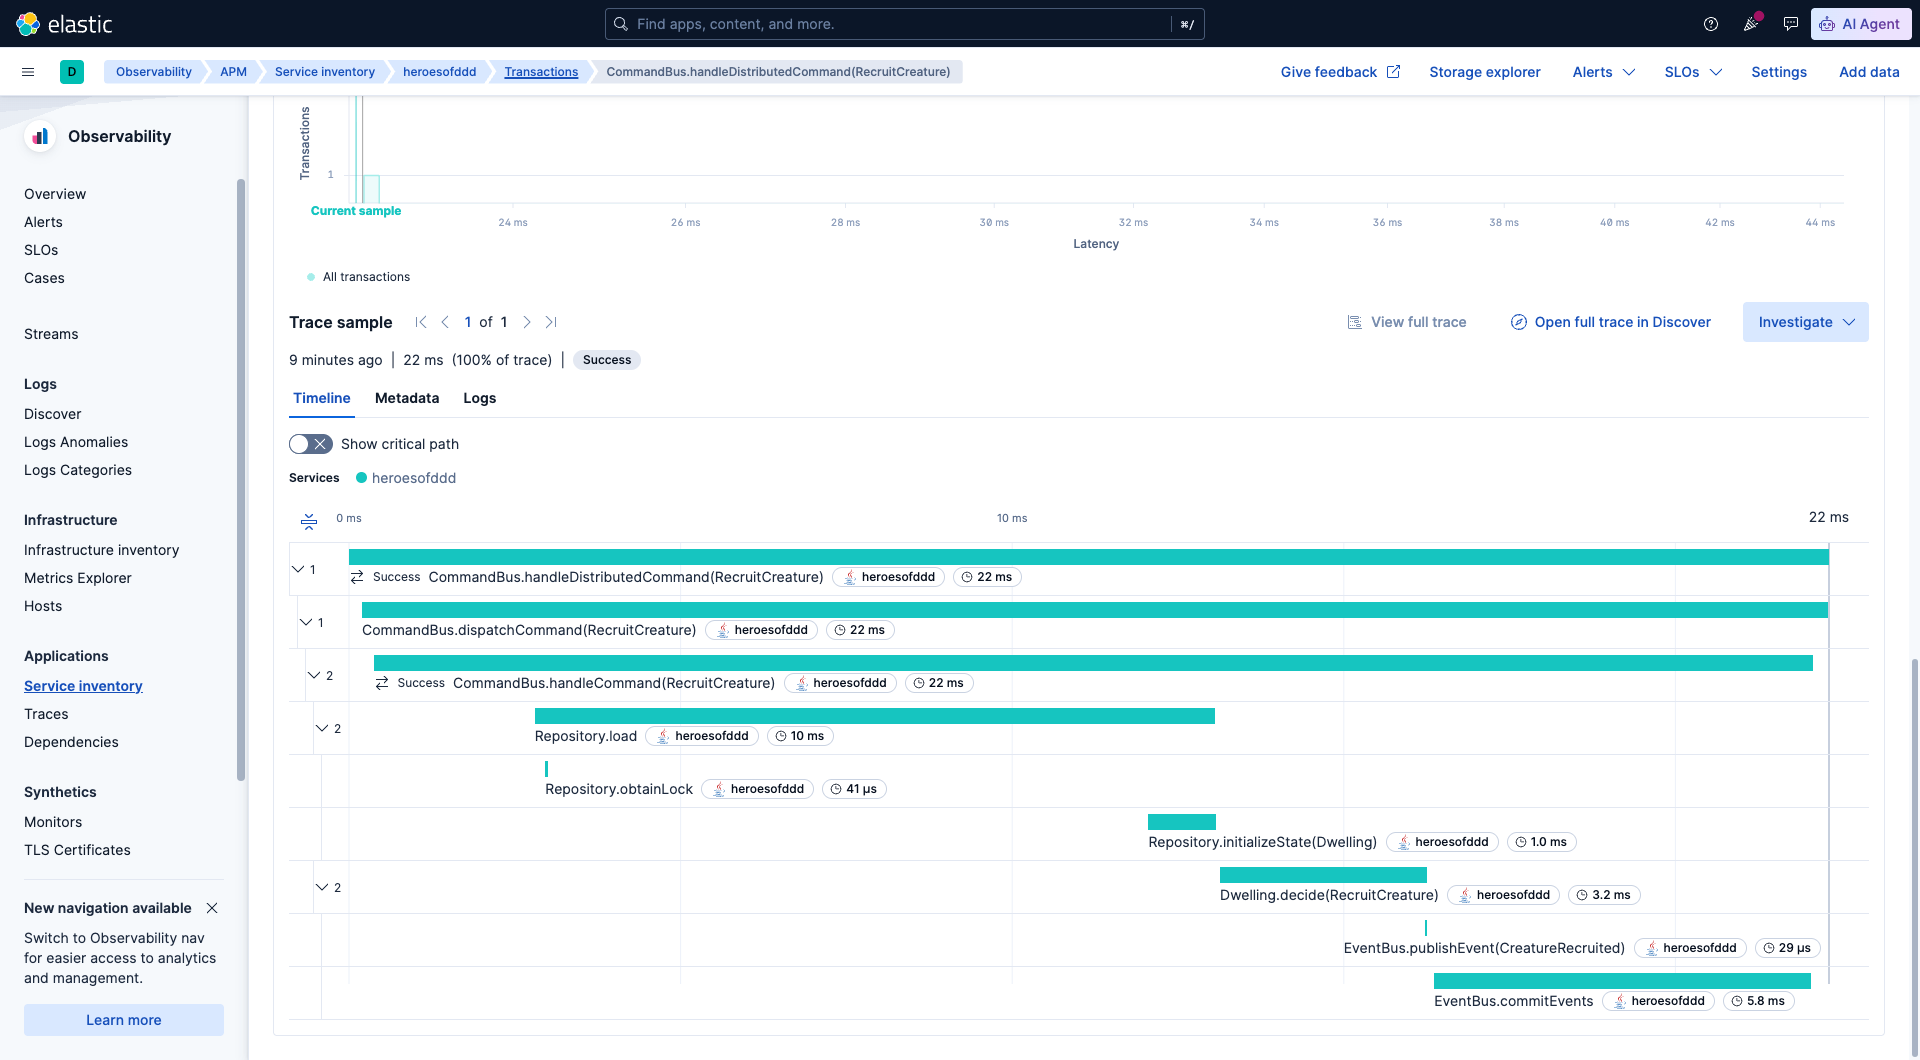
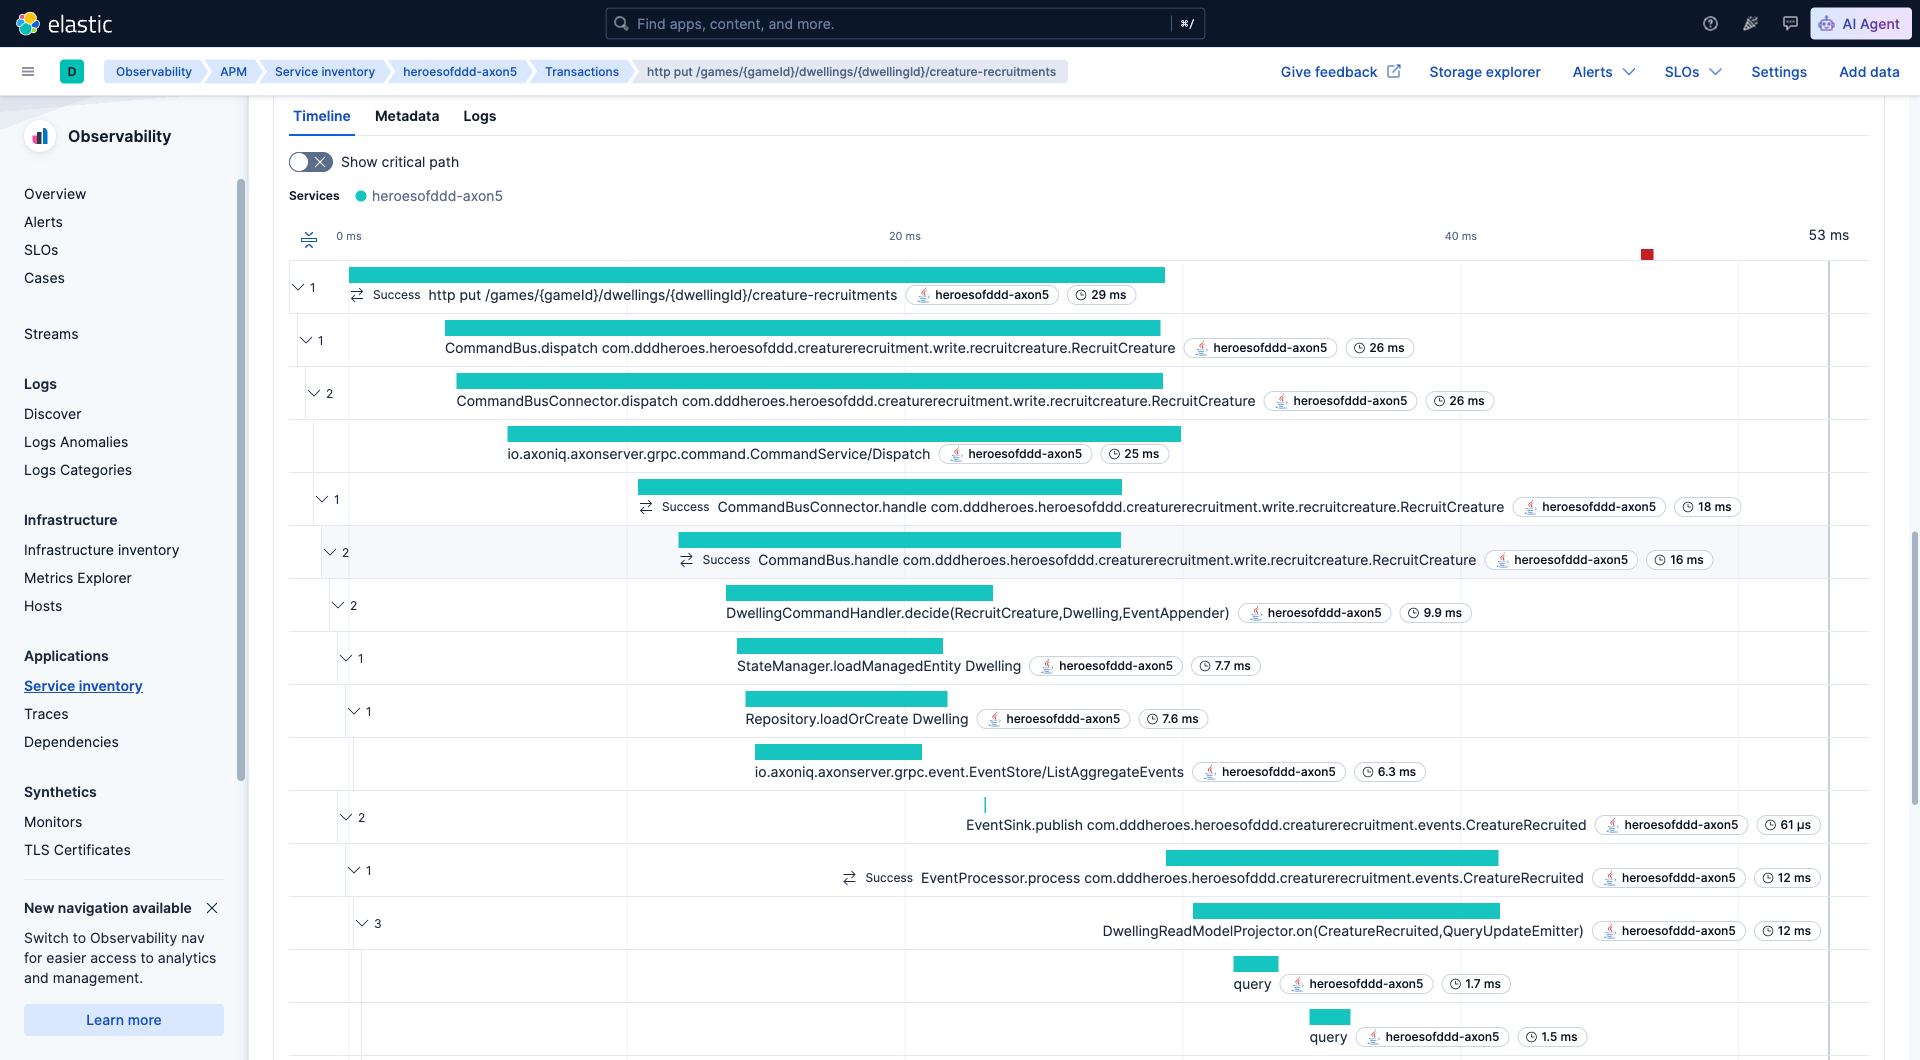
docs(observability): describe the Axon 5 traces that the app actually produces
The Kibana/Jaeger tour, filters and screenshots still showed Axon 4 span and
attribute names (handleDistributedCommand, EventBus.publishEvent,
axon.metadata.*), so the documented filters matched nothing. The section on
split traces also claimed that the Axon Server hop and event processors start
new traces, but with the trace context in message metadata and
distributed-in-same-trace one request is one trace.

Recapture the Kibana screenshots against Axon Server, use the axoniq.* span
attributes, and list the cases that legitimately produce extra or linked
traces.

diff --git a/docs/OBSERVABILITY.md b/docs/OBSERVABILITY.md
@@ -19,7 +19,7 @@ The app can emit distributed traces to either **Elastic APM** or **Jaeger** via 
 11. [R2DBC / SQL spans](#r2dbc--sql-spans)
 12. [gRPC spans (Axon Server connector)](#grpc-spans-axon-server-connector)
 13. [Reading reactive traces — causality vs. containment](#reading-reactive-traces--causality-vs-containment)
-14. [Why Axon splits work across multiple traces](#why-axon-splits-work-across-multiple-traces)
+14. [When a request spans more than one trace](#when-a-request-spans-more-than-one-trace)
 
 ## Backends — pick one
 
@@ -114,89 +114,110 @@ No `observability-*` profile = no traces emitted, no extra containers needed. Us
 
 ## Exploring traces in Kibana — guided tour
 
-A quick walkthrough of what you can see and where to click. Examples below were captured after running the full chain `BuildDwelling → IncreaseAvailableCreatures → RecruitCreature → GetDwellingById` through Swagger UI with the `observability-elastic` profile active.
+A quick walkthrough of what you can see and where to click. The captures below come from running the
+`generated-requests.http` flow (`BuildDwelling` twice, `GetDwellingById`, the `WatchDwelling` subscription,
+`IncreaseAvailableCreatures`, `RecruitCreature`) with `SPRING_PROFILES_ACTIVE=observability-elastic,axonserver-aggregate`,
+so commands travel through Axon Server.
 
 ### 1. Service inventory
 
-[Kibana → ☰ → Observability → APM → Services](http://localhost:5601/app/apm/services) — landing page lists every service emitting traces. After firing a few requests you should see `heroesofddd` with average latency, throughput, and error rate.
+[Kibana -> ☰ -> Observability -> APM -> Services](http://localhost:5601/app/apm/services) - landing page lists every service emitting traces. After firing a few requests you should see `heroesofddd-axon5` with average latency, throughput, and error rate.
 
 ![Service inventory](images/observability/service-inventory.png)
 
 ### 2. Transactions
 
-Click `heroesofddd` → **Transactions** tab. Each row is a distinct "entry point" — both HTTP endpoints (auto-instrumented by Spring Web) and Axon's async boundaries (each command/event/query handler is a top-level transaction because Axon hops across the gRPC bus and async event processors).
+Click `heroesofddd-axon5` -> **Transactions** tab. With the default transaction type `request` the table lists the HTTP
+endpoints (auto-instrumented by Spring WebFlux) and the Axon Server connector's own background gRPC calls
+(`EventStore/GetFirstToken`, `PlatformService/GetPlatformServer`). Switch **Transaction type** to `unknown` to list the
+Axon handlers (`CommandBus.handle ...`, `CommandBusConnector.handle ...`, `EventProcessor.process ...`, `QueryBus.handle ...`).
+Elastic APM shows those as transactions because of their span kind, but they are not separate traces: each one sits
+inside the trace of the request that caused it.
 
 ![Transactions](images/observability/transactions.png)
 
-### 3. Traces — the full list
+### 3. Traces - the full list
 
-[Kibana → APM → Traces](http://localhost:5601/app/apm/traces) shows every individual trace tree.
+[Kibana -> APM -> Traces](http://localhost:5601/app/apm/traces) shows every individual trace tree, by its root.
 
-For this project you'll see roots like:
-- `http put /games/{gameId}/dwellings/{dwellingId}` — HTTP root
-- `CommandBus.handleDistributedCommand(RecruitCreature)` — command handling on the aggregate side after the gRPC hop to Axon Server
-- `StreamingEventProcessor.process(CreatureRecruited)` — projector / automation
-- `CommandBus.handleCommand(AddCreatureToArmy)` — command emitted by the `WhenCreatureRecruitedThenAddToArmy` automation
-- `QueryBus.processQueryMessage(GetDwellingById)` — query side
+For this project the roots are:
+- `http put /games/{gameId}/dwellings/{dwellingId}` and the other HTTP endpoints, one trace per request
+- `io.axoniq.axonserver.grpc.event.EventStore/GetFirstToken` and `...PlatformService/GetPlatformServer`, background
+  calls of the Axon Server connector, not tied to any request
+
+Commands, event processors, automations and their follow-up commands do **not** appear as roots: they continue the
+request's trace (see [When a request spans more than one trace](#when-a-request-spans-more-than-one-trace)).
 
 ![Traces list](images/observability/traces.png)
 
-### 4. Trace waterfall — Axon internals visible
+### 4. Trace waterfall - Axon internals visible
 
-Click any `CommandBus.handleCommand(...)` trace and Kibana renders a waterfall like this — the full call path of the Axon command handler, including aggregate loading and event publication:
+Click the `http put .../creature-recruitments` trace and Kibana renders the whole request as one waterfall - the HTTP
+call, the command's hop through Axon Server, the command handler, event publication, the projector with its SQL, and
+the automation's follow-up command:
 
 ![Axon trace waterfall](images/observability/axon-waterfall.png)
 
-What you're looking at:
+What you're looking at (durations from the capture above, names shortened):
 
 ```
-✓ CommandBus.handleDistributedCommand(RecruitCreature)     22 ms     ← gRPC server side
-  └─ CommandBus.dispatchCommand(RecruitCreature)           22 ms
-     └─ CommandBus.handleCommand(RecruitCreature)          22 ms
-        ├─ Repository.load                                 10 ms     ← event sourcing
-        │  ├─ Repository.obtainLock                        41 μs
-        │  └─ Repository.initializeState(Dwelling)          1.0 ms   ← rehydrate aggregate
-        ├─ Dwelling.decide(RecruitCreature)                 3.2 ms   ← AGGREGATE business logic
-        ├─ EventBus.publishEvent(CreatureRecruited)        29 μs
-        └─ EventBus.commitEvents                            5.8 ms   ← persist to event store
+✓ http put /games/{gameId}/dwellings/{dwellingId}/creature-recruitments             29 ms
+  └─ CommandBus.dispatch ...RecruitCreature                                         26 ms
+     └─ CommandBusConnector.dispatch ...RecruitCreature                             26 ms   <- gRPC to Axon Server
+        ├─ CommandService/Dispatch                                                  25 ms
+        └─ CommandBusConnector.handle ...RecruitCreature                            18 ms   <- handling side of the hop
+           └─ CommandBus.handle ...RecruitCreature                                  16 ms
+              ├─ DwellingCommandHandler.decide(RecruitCreature,...)                9.9 ms   <- business logic
+              │  ├─ StateManager.loadManagedEntity Dwelling                        7.7 ms
+              │  │  └─ Repository.loadOrCreate Dwelling                            7.6 ms   <- event sourcing
+              │  │     └─ EventStore/ListAggregateEvents                           6.3 ms
+              │  └─ EventSink.publish ...CreatureRecruited                          61 μs
+              │     ├─ EventProcessor.process ...CreatureRecruited                  12 ms   <- ReadModel_Dwelling
+              │     │  └─ DwellingReadModelProjector.on(CreatureRecruited,...)      12 ms
+              │     │     ├─ query / query                                                  <- R2DBC read-model queries
+              │     │     └─ QueryBus.emitUpdate                                            <- subscription-query update
+              │     └─ EventProcessor.process ...CreatureRecruited                          <- automation processor
+              │        └─ WhenCreatureRecruitedThenAddToArmyProcessor.react(...)
+              │           └─ CommandBus.dispatch ...AddCreatureToArmy                       <- follow-up command, same trace
+              └─ EventStore/AppendEvent
 ```
 
-This is *exactly* the layered shape from Event Sourcing theory — repository → aggregate → event publication — rendered as data, not as a diagram in a slide.
+### 5. Span attributes - gameId, playerId, message metadata
 
-### 5. Span attributes — gameId, playerId, message metadata
-
-Click any Axon span (e.g. `CommandBus.handleCommand(RecruitCreature)`) → **Metadata** tab. The flyout shows OpenTelemetry attributes — including correlation data injected by `GameConfiguration.gameDataProvider`:
+Click any Axon span (e.g. `CommandBus.handle ...RecruitCreature`) -> **Metadata**. The `labels` section shows the
+message identity and the message's metadata - including the correlation data injected by `GameConfiguration.gameDataProvider`:
 
 ![Span attributes](images/observability/span-attributes.png)
 
 ```
-labels.axon_metadata_gameId    = scenario-1                  ← from gameDataProvider
-labels.axon_metadata_playerId  = player-1                    ← from gameDataProvider
-labels.axon_message_id         = 2201ae5d-3871-45b2-a661-...
-labels.axon_message_name       = com.dddheroes…RecruitCreature
-labels.axon_message_type       = GrpcBackedCommandMessage
-labels.axon_payload_type       = com.dddheroes…RecruitCreature
+labels.axoniq_message_id                = 0a81514e-8265-4173-8260-...
+labels.axoniq_message_type              = com.dddheroes...RecruitCreature#0.0.1
+labels.axoniq_metadata_gameId           = game-...                       <- from gameDataProvider
+labels.axoniq_metadata_playerId         = player-1                     <- from gameDataProvider
+labels.axoniq_metadata_correlationId    = 0a81514e-...
+labels.axoniq_metadata_causationId      = 0a81514e-...
+labels.axoniq_metadata_traceparent      = 00-4a33f4b3...-b114d4d4...-01    <- trace context carried in the message
 ```
 
-This is the practical payoff: filtering traces by `labels.axon_metadata_gameId : "scenario-1"` in the Kibana search bar isolates every span — across every aggregate, processor and projector — that participated in one game session.
+This is the practical payoff: filtering by `labels.axoniq_metadata_gameId : "scenario-1"` in the Kibana search bar isolates every Axon span - across every aggregate, processor and projector - that participated in one game session.
 
 ## Same traces in Jaeger
 
-With `observability-jaeger` active, the **same** trace data is produced — Jaeger just renders it differently:
+With `observability-jaeger` active, the **same** trace data is produced - Jaeger just renders it differently:
 
 1. Open [http://localhost:16686](http://localhost:16686).
-2. **Service** dropdown → pick `heroesofddd`.
-3. **Operation** dropdown → e.g. `CommandBus.handleCommand(RecruitCreature)`.
-4. Click **Find Traces** → see the same waterfall tree (`Repository.load`, `Dwelling.decide`, `EventBus.publishEvent`, …).
-5. Click any span → "Tags" panel shows the same OTel attributes as Kibana labels, with dot-notation: `axon.message.id`, `axon.message.name`, `axon.metadata.gameId`, `axon.metadata.playerId`, etc.
+2. **Service** dropdown -> pick `heroesofddd-axon5`.
+3. **Operation** dropdown -> e.g. `http put /games/{gameId}/dwellings/{dwellingId}/creature-recruitments`, or an Axon span such as `CommandBus.handle com.dddheroes.heroesofddd.creaturerecruitment.write.recruitcreature.RecruitCreature`.
+4. Click **Find Traces** -> see the same waterfall tree (`CommandBusConnector.handle`, `DwellingCommandHandler.decide(...)`, `EventSink.publish`, `EventProcessor.process`, ...).
+5. Click any span -> "Tags" panel shows the same attributes as Kibana labels, with dot-notation: `axoniq.message.id`, `axoniq.message.type`, `axoniq.metadata.gameId`, `axoniq.metadata.playerId`, etc.
 
 Trade-offs vs Kibana APM:
-- ✅ **Lighter** — one container, instant startup, no Elasticsearch index management
-- ✅ **Simpler** — direct trace search by service / operation / tag / duration
-- ❌ **No service map** — Kibana shows topology between services; Jaeger v2 OSS doesn't
-- ❌ **No KQL** — Jaeger uses a simpler tag-equality search (`tag: axon.metadata.gameId=scenario-1`) rather than full KQL
-- ❌ **No persistence by default** — all-in-one stores traces in memory; restart loses them
-- ❌ **No metrics/logs correlation** — Kibana correlates traces with the rest of the Elastic stack
+- ✅ **Lighter** - one container, instant startup, no Elasticsearch index management
+- ✅ **Simpler** - direct trace search by service / operation / tag / duration
+- ❌ **No service map** - Kibana shows topology between services; Jaeger v2 OSS doesn't
+- ❌ **No KQL** - Jaeger uses a simpler tag-equality search (`axoniq.metadata.gameId=scenario-1`) rather than full KQL
+- ❌ **No persistence by default** - all-in-one stores traces in memory; restart loses them
+- ❌ **No metrics/logs correlation** - Kibana correlates traces with the rest of the Elastic stack
 
 ## Useful filters
 
@@ -206,11 +227,11 @@ Paste into the Kibana search bar (KQL) at the top of any APM page:
 
 | Goal | KQL |
 |---|---|
-| Traces for one game | `labels.axon_metadata_gameId : "scenario-1"` |
-| Only command handlers | `transaction.name : "CommandBus.handleCommand*"` |
-| Only one aggregate's decisions | `span.name : "Dwelling.decide(*)"` |
-| Only automation reactions | `span.name : "*Processor.react(*)"` |
-| Only event publications | `span.name : "EventBus.publishEvent(*)"` |
+| Traces for one game | `labels.axoniq_metadata_gameId : "scenario-1"` |
+| Only command handlers | `transaction.name : CommandBus.handle*` |
+| Only one entity's decisions | `span.name : DwellingCommandHandler.decide*` |
+| Only automation reactions | `span.name : *Processor.react*` |
+| Only event publications | `span.name : EventSink.publish*` |
 
 ### Jaeger (Tags field)
 
@@ -218,11 +239,11 @@ In the Jaeger UI search form, the **Tags** field accepts space-separated `key=va
 
 | Goal | Tag query |
 |---|---|
-| Traces for one game | `axon.metadata.gameId=scenario-1` |
-| One specific player's traces | `axon.metadata.playerId=player-1` |
-| Combine | `axon.metadata.gameId=scenario-1 axon.metadata.playerId=player-1` |
+| Traces for one game | `axoniq.metadata.gameId=scenario-1` |
+| One specific player's traces | `axoniq.metadata.playerId=player-1` |
+| Combine | `axoniq.metadata.gameId=scenario-1 axoniq.metadata.playerId=player-1` |
 
-(Operation-level filtering — e.g. "only `Dwelling.decide` spans" — is done via the **Operation** dropdown, not the Tags field.)
+(Operation-level filtering - e.g. "only `DwellingCommandHandler.decide` spans" - is done via the **Operation** dropdown, not the Tags field.)
 
 ## JDBC / SQL spans
 
@@ -393,8 +414,27 @@ think an SSE client on `/dwellings/stream`), so stretching handler spans until t
 latency depend on consumer behavior and would keep spans of long-lived streaming queries open indefinitely.
 That is why the dispatch span, not the handler span, is the one that covers the full duration.
 
-## Why Axon splits work across multiple traces
+## When a request spans more than one trace
 
-You'll notice that an HTTP request often produces *two or three* separate trace trees rather than one giant tree. That's expected. Axon hops over async boundaries that don't preserve OpenTelemetry context: the gRPC call to Axon Server (server-side `handleDistributedCommand` starts a new root) and the asynchronous event processors (each `process(Event)` is its own root). Inside one boundary, however, the tree is complete — as the waterfall above shows. Behavior is identical in both Kibana APM and Jaeger.
+In this app one HTTP request is **one trace**, including everything Axon does on its behalf: the command's hop through
+Axon Server (`CommandBusConnector.dispatch` -> `CommandBusConnector.handle`), the event handlers of both subscribing and
+streaming (pooled) processors, and the commands that automations send in reaction. The waterfall above is a single
+trace. Two things make this work:
 
-To stitch sessions together end-to-end, use the `axon_metadata_gameId` (Kibana) / `axon.metadata.gameId` (Jaeger) tag filter described above.
+- every command and event carries the trace context in its metadata (`traceparent`), so it survives the gRPC hop and
+  is stored with the event;
+- `axon.tracing.event-processor.distributed-in-same-trace: true` (see `application.yaml`) lets streaming processors
+  continue the publisher's trace instead of starting their own.
+
+You will see additional traces only in these cases:
+
+| Situation | What you see |
+|---|---|
+| An event is handled more than `distributed-in-same-trace-time-limit` (default 2 minutes) after it was published - a replay, or a backlog after downtime | The handler starts its own trace, with a span **link** back to the publishing span (`batch-trace-enabled: false` keeps it free of a `StreamingEventProcessor.batch` parent) |
+| Subscription-query updates (`/watch`) | The update is part of the trace of the command that caused it, with a **link** to the `WatchDwelling` subscription's trace |
+| Axon Server connector housekeeping | Short root traces such as `EventStore/GetFirstToken`, not tied to any request |
+| Axon's defaults (drop both `event-processor` settings) | Every streaming batch becomes its own `StreamingEventProcessor.batch` trace, each `EventProcessor.process` span **linked** to the publishing span |
+
+Jaeger and Kibana render span links as clickable references between the traces. To collect everything for one game
+session regardless of trace boundaries, filter by `axoniq.metadata.gameId` (Jaeger) or `labels.axoniq_metadata_gameId`
+(Kibana) as described above.
